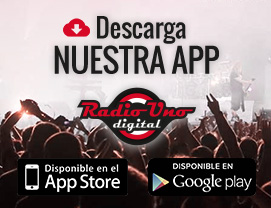
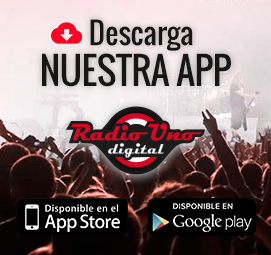
Image rotator and string truncator

diff --git a/js/update.js b/js/update.js
@@ -1,0 +1,10 @@
+// This is run when the document is ready, you could also run setInterval elsewhere if needed
+$(document).ready(function (e) {
+
+   setInterval ( RunUpdate, 3000 ); // Run once every 3 seconds
+
+});
+
+function RunUpdate() {
+   $("#Update").load('update.php');
+}

diff --git a/assets/css/style.css b/assets/css/style.css
@@ -108,7 +108,7 @@ a.player-link {
 }
 
 .player-thumb:hover img{
-  opacity: 0.2;
+  opacity: 0.35;
 }
 
 .player-container h1 {

diff --git a/assets/images/rotator/rotate.php b/assets/images/rotator/rotate.php
@@ -1,0 +1,208 @@
+<?php
+
+/*
+	DOWNLOADED FROM http://www.marcofolio.net/
+	Check it out for more interesting scripts & downloads
+
+	AUTOMATIC IMAGE ROTATOR
+	Version 2.2 - December 4, 2003
+	Copyright (c) 2002-2003 Dan P. Benjamin, Automatic, Ltd.
+	All Rights Reserved.
+
+	http://www.hiveware.com/imagerotator.php
+	
+	http://www.automaticlabs.com/
+	
+	
+	DISCLAIMER
+	Automatic, Ltd. makes no representations or warranties about
+	the suitability of the software, either express or
+	implied, including but not limited to the implied
+	warranties of merchantability, fitness for a particular
+	purpose, or non-infringement. Dan P. Benjamin and Automatic, Ltd.
+	shall not be liable for any damages suffered by licensee
+	as a result of using, modifying or distributing this
+	software or its derivatives.
+	
+	
+	ABOUT
+	This PHP script will randomly select an image file from a
+	folder of images on your webserver.  You can then link to it
+	as you would any standard image file and you'll see a random
+	image each time you reload.
+	
+	When you want to add or remove images from the rotation-pool,
+	just add or remove them from the image rotation folder.
+
+
+	VERSION CHANGES
+	Version 1.0
+		- Release version
+	
+	Version 1.5
+		- Tweaked a few boring bugs
+	
+	Version 2.0
+		- Complete rewrite from the ground-up
+		- Made it clearer where to make modifications
+		- Made it easier to specify/change the rotation-folder
+		- Made it easier to specify/change supported image types
+		- Wrote better instructions and info (you're them reading now)
+		- Significant speed improvements
+		- More error checking
+		- Cleaner code (albeit more PHP-specific)
+		- Better/faster random number generation and file-type parsing
+		- Added a feature where the image to display can be specified
+		- Added a cool feature where, if an error occurs (such as no
+		  images being found in the specified folder) *and* you're
+		  lucky enough to have the GD libraries compiled into PHP on
+		  your webserver, we generate a replacement "error image" on
+		  the fly.
+		
+    Version 2.1
+        - Updated a potential security flaw when value-matching
+          filenames
+
+    Version 2.2
+        - Updated a few more potential security issues
+        - Optimized the code a bit.
+        - Expanded the doc for adding new mime/image types.
+
+        Thanks to faithful ALA reader Justin Greer for
+        lots of good tips and solid code contribution!
+
+
+	INSTRUCTIONS
+	1. Modify the $folder setting in the configuration section below.
+	2. Add image types if needed (most users can ignore that part).
+	3. Upload this file (rotate.php) to your webserver.  I recommend
+	   uploading it to the same folder as your images.
+	4. Link to the file as you would any normal image file, like this:
+
+			<img src="http://example.com/rotate.php">
+
+	5. You can also specify the image to display like this:
+
+			<img src="http://example.com/rotate.php?img=gorilla.jpg">
+		
+		This would specify that an image named "gorilla.jpg" located
+		in the image-rotation folder should be displayed.
+	
+	That's it, you're done.
+
+*/
+
+
+
+
+/* ------------------------- CONFIGURATION -----------------------
+
+
+	Set $folder to the full path to the location of your images.
+	For example: $folder = '/user/me/example.com/images/';
+	If the rotate.php file will be in the same folder as your
+	images then you should leave it set to $folder = '.';
+
+*/
+
+
+	$folder = '.';
+
+
+/*	
+
+	Most users can safely ignore this part.  If you're a programmer,
+	keep reading, if not, you're done.  Go get some coffee.
+
+    If you'd like to enable additional image types other than
+	gif, jpg, and png, add a duplicate line to the section below
+	for the new image type.
+	
+	Add the new file-type, single-quoted, inside brackets.
+	
+	Add the mime-type to be sent to the browser, also single-quoted,
+	after the equal sign.
+	
+	For example:
+	
+	PDF Files:
+
+		$extList['pdf'] = 'application/pdf';
+	
+    CSS Files:
+
+        $extList['css'] = 'text/css';
+
+    You can even serve up random HTML files:
+
+	    $extList['html'] = 'text/html';
+	    $extList['htm'] = 'text/html';
+
+    Just be sure your mime-type definition is correct!
+
+*/
+
+    $extList = array();
+	$extList['gif'] = 'image/gif';
+	$extList['jpg'] = 'image/jpeg';
+	$extList['jpeg'] = 'image/jpeg';
+	$extList['png'] = 'image/png';
+	
+
+// You don't need to edit anything after this point.
+
+
+// --------------------- END CONFIGURATION -----------------------
+
+$img = null;
+
+if (substr($folder,-1) != '/') {
+	$folder = $folder.'/';
+}
+
+if (isset($_GET['img'])) {
+	$imageInfo = pathinfo($_GET['img']);
+	if (
+	    isset( $extList[ strtolower( $imageInfo['extension'] ) ] ) &&
+        file_exists( $folder.$imageInfo['basename'] )
+    ) {
+		$img = $folder.$imageInfo['basename'];
+	}
+} else {
+	$fileList = array();
+	$handle = opendir($folder);
+	while ( false !== ( $file = readdir($handle) ) ) {
+		$file_info = pathinfo($file);
+		if (
+		    isset( $extList[ strtolower( $file_info['extension'] ) ] )
+		) {
+			$fileList[] = $file;
+		}
+	}
+	closedir($handle);
+
+	if (count($fileList) > 0) {
+		$imageNumber = time() % count($fileList);
+		$img = $folder.$fileList[$imageNumber];
+	}
+}
+
+if ($img!=null) {
+	$imageInfo = pathinfo($img);
+	$contentType = 'Content-type: '.$extList[ $imageInfo['extension'] ];
+	header ($contentType);
+	readfile($img);
+} else {
+	if ( function_exists('imagecreate') ) {
+		header ("Content-type: image/png");
+		$im = @imagecreate (100, 100)
+		    or die ("Cannot initialize new GD image stream");
+		$background_color = imagecolorallocate ($im, 255, 255, 255);
+		$text_color = imagecolorallocate ($im, 0,0,0);
+		imagestring ($im, 2, 5, 5,  "IMAGE ERROR", $text_color);
+		imagepng ($im);
+		imagedestroy($im);
+	}
+}
+
+?>

diff --git a/player.php b/player.php
@@ -19,15 +19,8 @@
     <link rel="stylesheet" type="text/css" href="assets/css/style.css" media="screen" />
     <link href='http://fonts.googleapis.com/css?family=Oswald:400,700' rel='stylesheet' type='text/css'>
     <link href='http://fonts.googleapis.com/css?family=Lato:300' rel='stylesheet' type='text/css'>
-    <script type="text/javascript">
-    var to_refresh = ['title-thebeatles', 'artist-thebeatles', 'id3'];
-
-    var auto_refresh = setInterval(function () {
-    $.each(to_refresh, function(_,id) {
-        $('#'+id).load('player.php #'+id).fadeIn("slow");
-    });
-    }, 5000);
-    </script>
+    <script src="http://code.jquery.com/jquery-latest.js"></script>
+    
 </head>
 
 <body>
@@ -38,7 +31,7 @@
         <div class="player-item-section">
 
             <!-- /*ROW 1*/ -->
-            <div class="player-item">
+            <div class="player-item" id="acdc">
                 <?php include "items/item_acdc.php" ?>
             </div><!-- /.player-item -->
             <div class="player-item">
@@ -81,7 +74,7 @@
                 <?php include "items/item_rockdeaca.php" ?>
             </div><!-- /.player-item -->
             <div class="player-item last">
-                <img src="assets/images/ban_mobile-app_271x208.jpg" alt="Descarga nuestra APP para iOS y Android" />
+                <img src="assets/images/rotator/rotate.php" alt="Banner" width="271" height="255" />
             </div><!-- /.player-item-last -->
             <div class="clearfix"></div>
 

diff --git a/items/item_acdc.php b/items/item_acdc.php
@@ -47,18 +47,18 @@ if (!$fp)
 		$artist = trim($split[0]);
 		$song = trim($split[1]);
 		}
+
+
 	}
 
-	if(strlen($song) > 35) {
-		$short = substr($song,0,35) . " ...";
-	}
-
-	if(strlen($artist) > 38) {
-		$short = substr($artist,0,38) . " ...";
-	}
-
+function truncate($string, $length, $dots = "...") {
+    return (strlen($string) > $length) ? substr($string, 0, $length - strlen($dots)) . $dots : $string;
+}
 
 ?>
+
+
+
 <div class="player-item-ref thebeatles">
 	<a class="player-link" href="#">
 		<div class="player-thumb">
@@ -66,8 +66,8 @@ if (!$fp)
 		</div>
 		<h2>AC/DC</h2>
 		<ul>
-			<li class="song-title"><?php echo $song ?></li>
-			<li class="song-artist"><?php echo $artist ?></li>
+			<li class="song-title"><?php echo truncate("$song", 35); ?></li>
+			<li class="song-artist"><?php echo truncate("$artist", 38); ?></li>
 		</ul>
 	</a>
 	<div class="divider"></div>

diff --git a/players/player_thebeatles.php b/players/player_thebeatles.php
@@ -57,7 +57,7 @@ if (!$fp)
 			include "muse/the-beatles.php"
 		?> 
 	</div><!-- /.player-box -->
-	<p class="song-title" id="title-thebeatles"><?php echo $song ?></p>
-	<p class="song-artist" id="artist-thebeatles"><?php echo $artist ?></p>   
+		<p class="song-title" id="title-thebeatles"><?php echo $song ?></p>
+		<p class="song-artist" id="artist-thebeatles"><?php echo $artist ?></p>
 </div><!-- /.player-container -->
 
